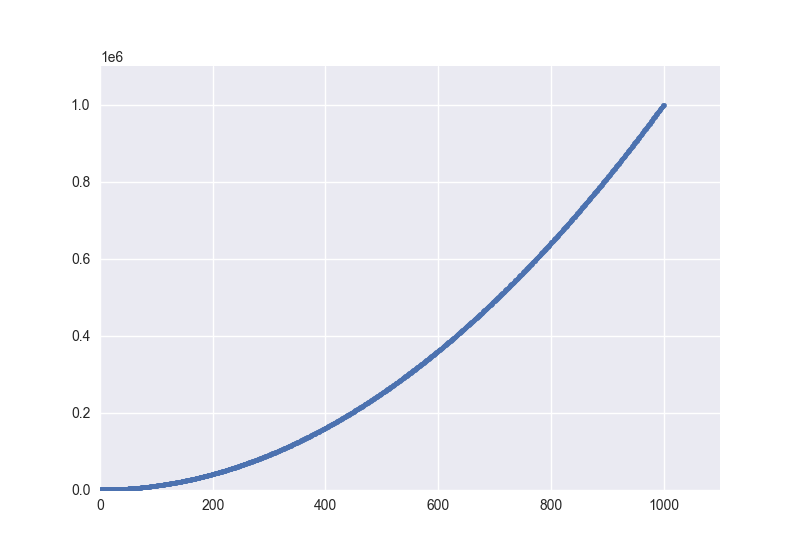
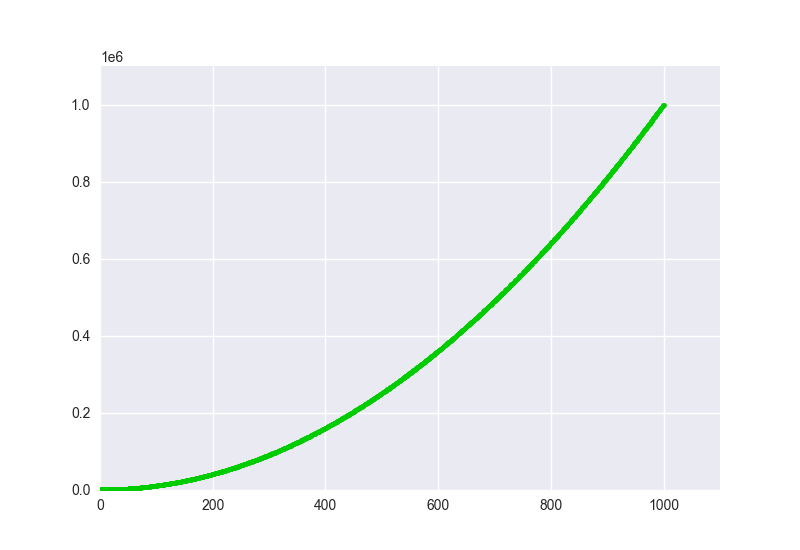
coloring plot

diff --git a/Plotting_App/scatter_squares.py b/Plotting_App/scatter_squares.py
@@ -44,12 +44,30 @@ import matplotlib.pyplot as plt
 # fig.savefig('scatter_plot.png')
 
 
+# x_values = range(1, 1001)
+# y_values = [x**2 for x in x_values]
+
+# plt.style.use('seaborn-v0_8')
+# fig, ax = plt.subplots()
+# ax.scatter(x_values, y_values, s=10)
+
+# # Setting the size of tick labels
+# ax.axis([0, 1100, 0, 1_100_000])
+
+# # Showing the plot
+# plt.show()
+
+# # Saving the plot to a file
+# fig.savefig('scatter_plot.png')
+
+
+
 x_values = range(1, 1001)
 y_values = [x**2 for x in x_values]
 
 plt.style.use('seaborn-v0_8')
 fig, ax = plt.subplots()
-ax.scatter(x_values, y_values, s=10)
+ax.scatter(x_values, y_values, color=(0, 0.8, 0), s=10)
 
 # Setting the size of tick labels
 ax.axis([0, 1100, 0, 1_100_000])
